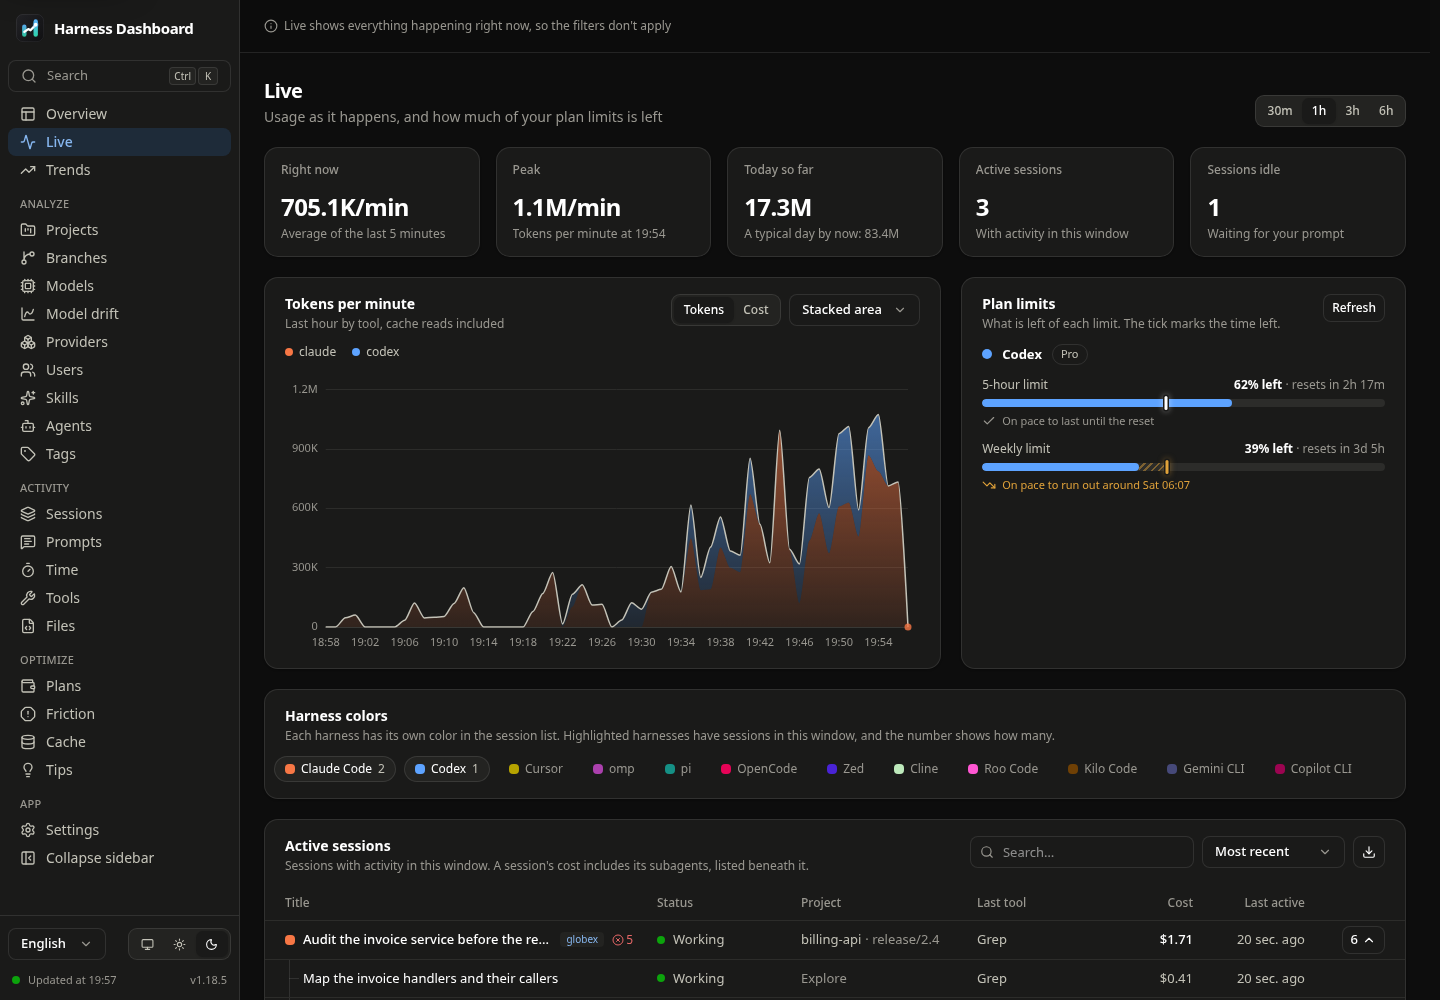
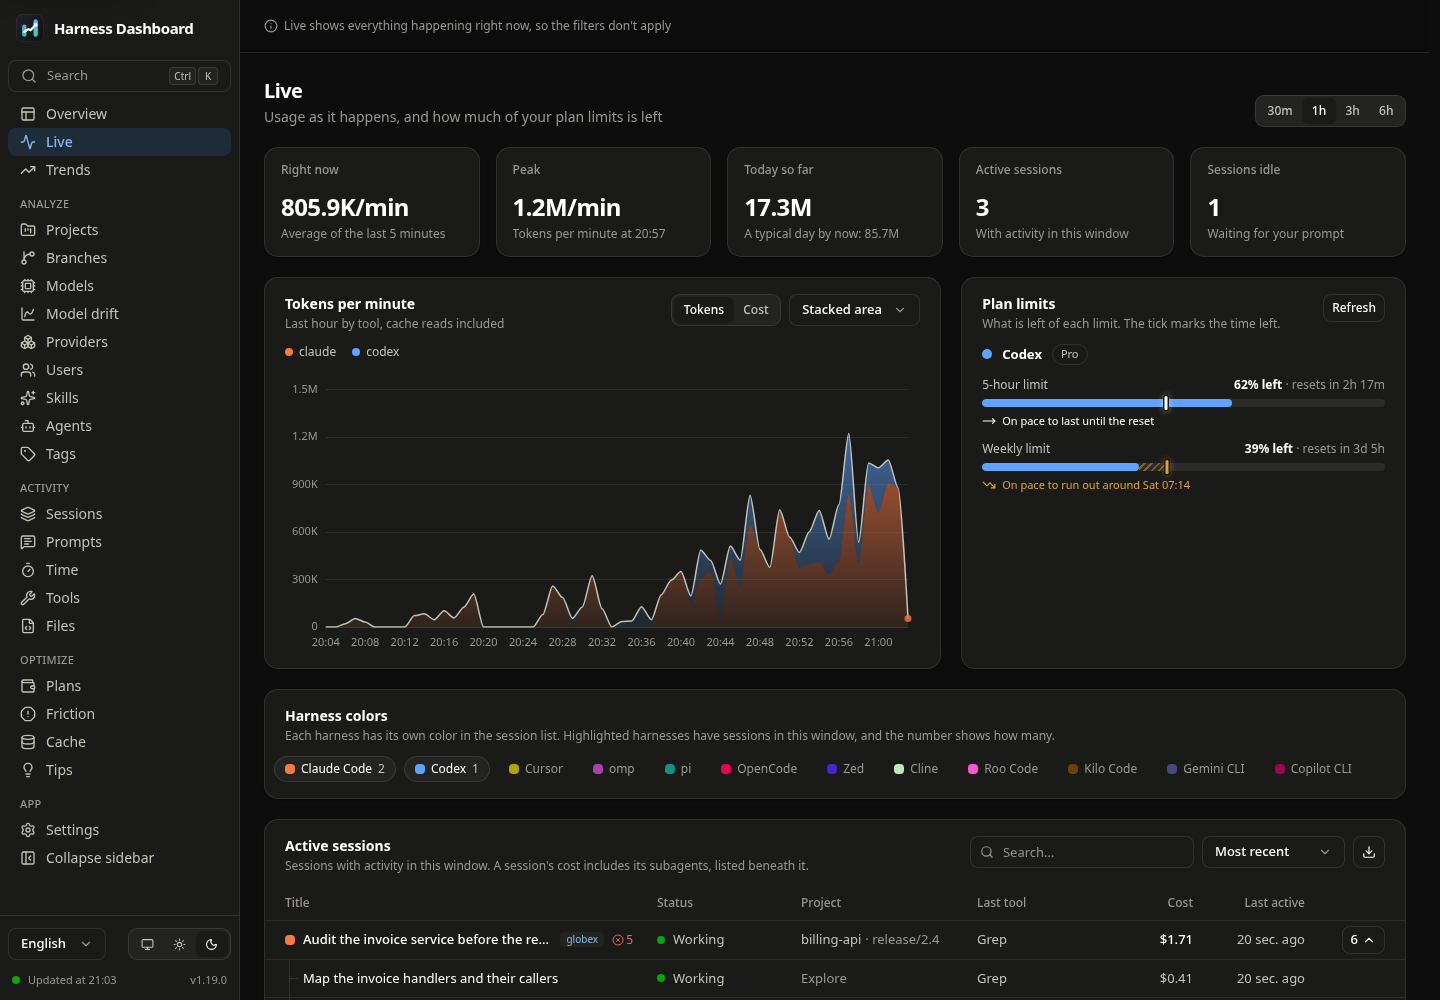
fix: plan limits note on pace is white with a steady arrow
The on-pace note now matches its white tick instead of a muted grey, and
its icon is a steady arrow that pairs with the warning's trend-down.

diff --git a/web/src/components/PlanLimits.svelte b/web/src/components/PlanLimits.svelte
@@ -54,7 +54,7 @@
 </script>
 
 <script lang="ts">
-  import { Check, TrendingDown } from "@lucide/svelte";
+  import { MoveRight, TrendingDown } from "@lucide/svelte";
   import { colorFor } from "../lib/colors.svelte.ts";
   import { compact, relative, until } from "../lib/format.ts";
 
@@ -111,7 +111,7 @@
             </span>
           </div>
           <!-- What's left ending short of the time left means the limit runs out before the window does: the gap between
-               them is hatched, and the tick and the note share the warning colour. -->
+               them is hatched, and the tick and the note share the warning colour. On pace, both are white. -->
           <div class="relative">
             <div class="relative h-2 overflow-hidden rounded-full bg-surface-3">
               <div class="h-full rounded-full transition-[width] duration-500" style:width={l > 0 ? `max(${l * 100}%, 4px)` : "0"} style:background={fill(l, r.provider)}></div>
@@ -128,8 +128,8 @@
           </div>
           {#if p?.outAt != null}
             {@const out = p.outAt < (w.resetsAt ?? 0)}
-            <div class="flex items-center gap-1.5 text-[11px] {out ? 'text-warn' : 'text-muted'}">
-              {#if out}<TrendingDown class="size-3.5 shrink-0" aria-hidden="true" />{:else}<Check class="size-3.5 shrink-0" aria-hidden="true" />{/if}
+            <div class="flex items-center gap-1.5 text-[11px] {out ? 'text-warn' : 'text-ink'}">
+              {#if out}<TrendingDown class="size-3.5 shrink-0" aria-hidden="true" />{:else}<MoveRight class="size-3.5 shrink-0" aria-hidden="true" />{/if}
               <span>{out ? t("live.pace.out", { time: clock(p.outAt) }) : t("live.pace.lasts")}</span>
             </div>
           {/if}
